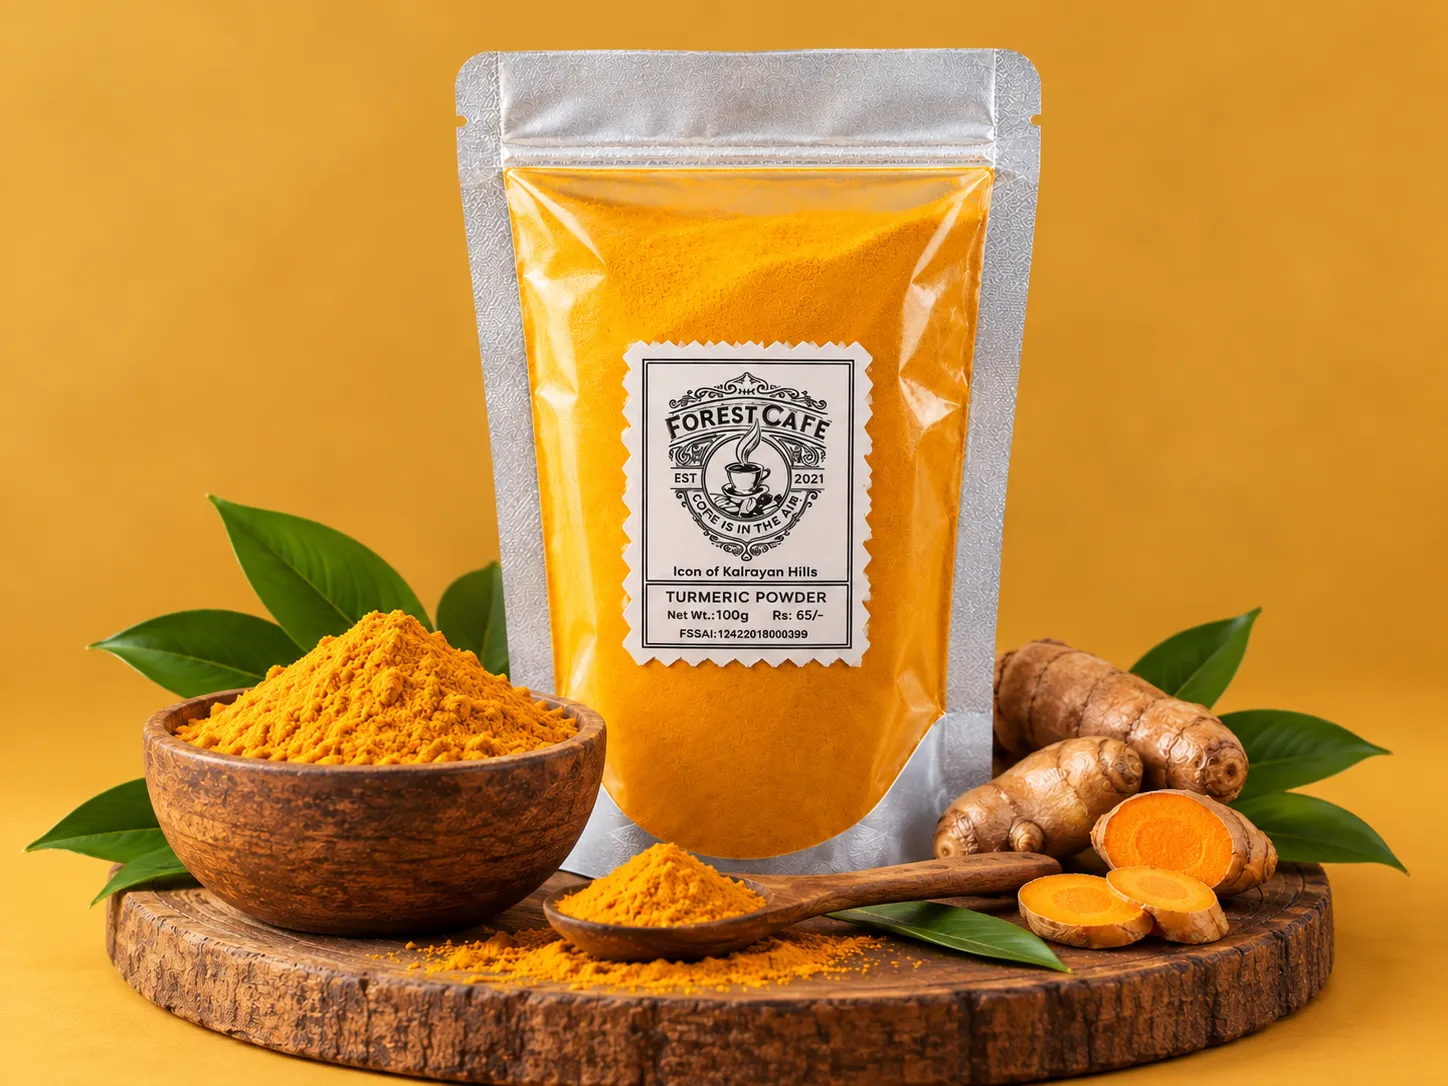
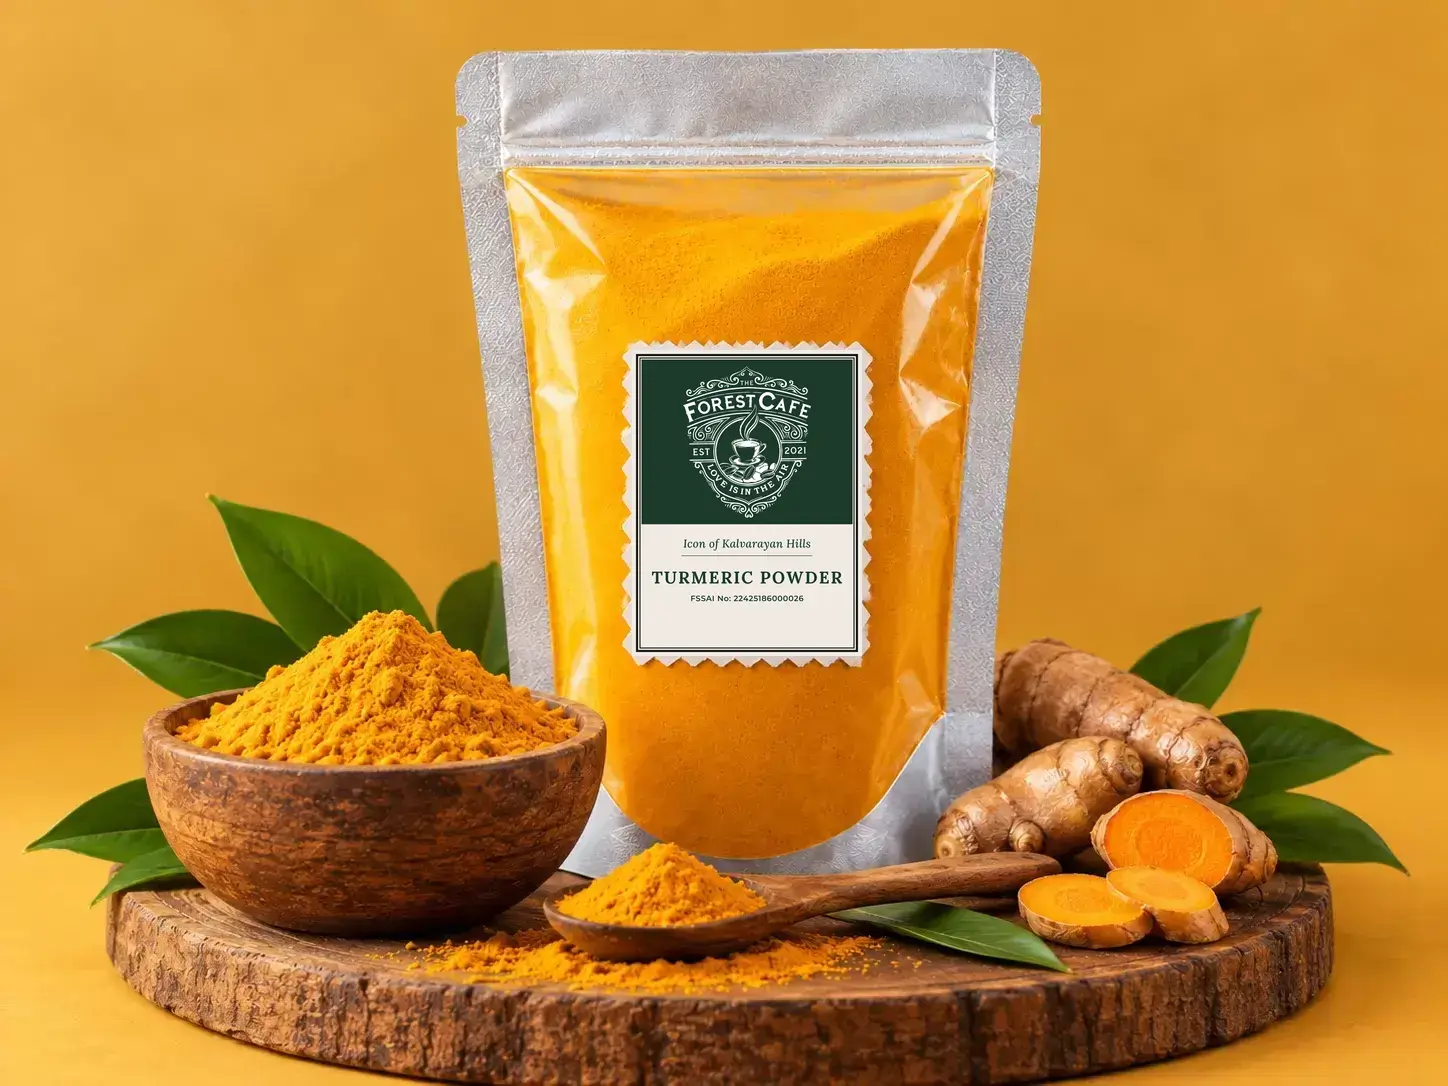
product images changed.. 100g & 200g option added for 70/30 coffee blend.. market price added for veg and fruits..

Changed region(s): [[0.4351, 0.3039, 0.6215, 0.6077], [0.6526, 0.1519, 0.6837, 0.1823], [0.3419, 0.1519, 0.3729, 0.1823]]

diff --git a/index.html b/index.html
@@ -522,7 +522,7 @@
                             <li data-item="fresh-ghee-250-ml"><span class="menu-item-name">Pure Coffee</span><span class="menu-dots"></span><span class="menu-price">₹380</span></li>
                             <li data-item="fresh-coffee-powder-250-g"><span class="menu-item-name">Coffee powder (250 g)</span><span class="menu-dots"></span><span class="menu-price">₹320</span></li>
                             <li data-item="fresh-tea-powder-250-g"><span class="menu-item-name">Tea powder (250 g)</span><span class="menu-dots"></span><span class="menu-price">₹180</span></li>
-                            <li data-item="fresh-seasonal-fruit-and-veg"><span class="menu-item-name">Seasonal fruit &amp; veg</span><span class="menu-dots"></span><span class="menu-price">Market rate</span></li>
+                            <li data-item="fresh-seasonal-fruit-and-veg"><span class="menu-item-name">Seasonal fruit &amp; veg</span><span class="menu-dots"></span><span class="menu-price">Market Price</span></li>
                         </ul>
                     </div>
                 </div>
@@ -645,31 +645,60 @@
                             </span>
                         </button>
                     </article>
-                    <article class="product-card" tabindex="0" role="button" aria-haspopup="dialog" data-id="prod-2" data-img="images/products/2-70-30.webp" data-name="70/30 Coffee Blend">
-                        <div class="product-img-wrap"><img alt="Forest Cafe 70/30 Coffee Blend" loading="lazy" decoding="async" src="images/products/2-70-30.webp" /></div>
-                        <h3 class="product-title">70/30 Coffee Blend</h3>
-                        <p class="product-weight">Balanced and aromatic</p>
-                        <p class="product-price" data-price-for="prod-2" hidden></p>
-                        <p class="product-desc">A balanced blend crafted for a smooth, aromatic cup with the rich body and character of freshly roasted coffee.</p>
-                        <button class="cta-pill-btn" type="button" aria-label="Select &amp; order 70/30 Coffee Blend">
-                            <span class="cta-shine" aria-hidden="true"></span>
-                            <span class="cta-label">Select &amp; order</span>
-                            <span class="cta-icon-wrap" aria-hidden="true">
-                                <!-- Shopping Bag Icon -->
-                                <svg class="cta-icon-svg" viewBox="0 0 24 24" width="16" height="16" fill="none" stroke="currentColor" stroke-width="2" stroke-linecap="round" stroke-linejoin="round">
-                                    <path d="M6 2 3 6v14a2 2 0 0 0 2 2h14a2 2 0 0 0 2-2V6l-3-4Z" />
-                                    <path d="M3 6h18" />
-                                    <path d="M16 10a4 4 0 0 1-8 0" />
-                                </svg>
-                            </span>
-                        </button>
-                    </article>
+
+<article class="product-card" tabindex="0" role="button"
+    aria-haspopup="dialog"
+    data-id="prod-2"
+    data-img="images/products/2-70-30.webp"
+    data-name="70/30 Coffee Blend"
+    data-variants="100 g|200 g">
+
+    <div class="product-img-wrap">
+        <img
+            alt="Forest Cafe 70/30 Coffee Blend"
+            loading="lazy"
+            decoding="async"
+            src="images/products/2-70-30.webp"
+        />
+    </div>
+
+    <h3 class="product-title">70/30 Coffee Blend</h3>
+
+    <p class="product-weight">100 g &amp; 200 g</p>
+
+    <p class="product-price" data-price-for="prod-2" hidden></p>
+
+    <p class="product-desc">
+        A balanced blend crafted for a smooth, aromatic cup
+        with the rich body and character of freshly roasted coffee.
+    </p>
+
+    <button class="cta-pill-btn" type="button"
+        aria-label="Select &amp; order 70/30 Coffee Blend">
+
+        <span class="cta-shine" aria-hidden="true"></span>
+        <span class="cta-label">Select &amp; order</span>
+
+        <span class="cta-icon-wrap" aria-hidden="true">
+            <svg class="cta-icon-svg" viewBox="0 0 24 24"
+                width="16" height="16" fill="none"
+                stroke="currentColor" stroke-width="2"
+                stroke-linecap="round" stroke-linejoin="round">
+                <path d="M6 2 3 6v14a2 2 0 0 0 2 2h14a2 2 0 0 0 2-2V6l-3-4Z" />
+                <path d="M3 6h18" />
+                <path d="M16 10a4 4 0 0 1-8 0" />
+            </svg>
+        </span>
+    </button>
+</article>
+
                     <article class="product-card" tabindex="0" role="button" aria-haspopup="dialog" data-id="prod-4" data-img="images/products/4-tea-powder.webp" data-name="Tea Dust">
                         <div class="product-img-wrap"><img alt="Forest Cafe Tea Dust" loading="lazy" decoding="async" src="images/products/4-tea-powder.webp" /></div>
                         <h3 class="product-title">Tea Powder</h3>
                         <p class="product-weight">Refreshing everyday tea</p>
                         <p class="product-price" data-price-for="prod-4" hidden></p>
                         <p class="product-desc">Fine tea dust selected for a rich colour, refreshing aroma and a comforting cup of everyday tea.</p>
+        
                         <button class="cta-pill-btn" type="button" aria-label="Select &amp; order Tea Dust">
                             <span class="cta-shine" aria-hidden="true"></span>
                             <span class="cta-label">Select &amp; order</span>

diff --git a/js/cms.js b/js/cms.js
@@ -54,7 +54,7 @@
   // `sizes` must match the data-variants="400 g|700 g" of that card: each size gets its own price.
   var PRODUCTS = [
     { id: 'prod-1', name: 'Pure Coffee' },
-    { id: 'prod-2', name: '70/30 Coffee Blend' },
+    { id: 'prod-2', name: '70/30 Coffee Blend', sizes: ['100 g', '200 g'] },
     { id: 'prod-4', name: 'Tea Dust' },
     { id: 'prod-5', name: 'Honey', sizes: ['400 g', '700 g'] },
     { id: 'prod-6', name: 'Curry Leaf Powder' },
@@ -308,7 +308,7 @@
         {
           "id": "fresh-seasonal-fruit-and-veg",
           "name": "Seasonal fruit & veg",
-          "price": "Market rate"
+          "price": "Market Price"
         }
       ]
     }
@@ -318,7 +318,7 @@
   function formatPrice(v) {
     v = String(v == null ? '' : v).replace(/[\u0000-\u001f]/g, '').trim().slice(0, 20);
     if (!v) return '';
-    return /^\d+(\.\d{1,2})?$/.test(v) ? '\u20b9' + v : v;   // "25" -> "₹25", "Market rate" stays
+    return /^\d+(\.\d{1,2})?$/.test(v) ? '\u20b9' + v : v;   // "25" -> "₹25", "Market Price" stays
   }
   function priceNum(s) {
     var m = /^\u20b9\s*(\d+(?:\.\d{1,2})?)$/.exec(String(s || '').trim());
